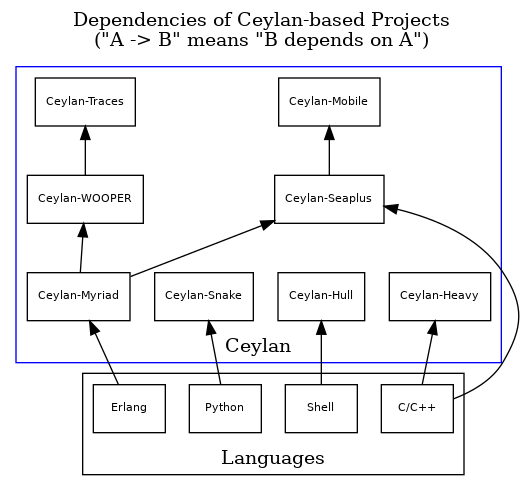
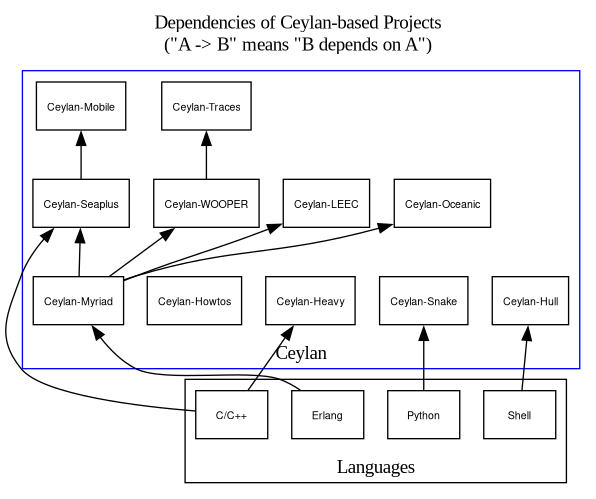
Updated will lacking subprojects.

Changed region(s): [[0.0, 0.0305, 1.0, 0.9776], [0.855, 0.4582, 0.8855, 0.4888]]

diff --git a/README.md b/README.md
@@ -1,21 +1,22 @@
 Ceylan
 ======
 
-This project has for goal to provide, as free software, some high-level, portable, general-purpose developments.
+This project has for goal to provide, as free software, some high-level, portable, general-purpose developments, and a few documentation elements.
 
-This repository is just an umbrella, in the sense that it is mostly empty: its purpose is only to federate and give access to the `Ceylan-*` actual subprojects.
+This repository is as such just an umbrella, in the sense that it is mostly empty: its purpose is only to federate and give access to the `Ceylan-*` actual subprojects.
 
-**Ceylan** currently comprises indeed 8 public subprojects:
+**Ceylan** currently comprises indeed 11 public subprojects:
 
- - [Ceylan-Heavy](https://github.com/Olivier-Boudeville/Ceylan-Heavy): for all general-purpose **C++** developments, to serve as a base for [OSDL](https://github.com/Olivier-Boudeville/OSDL)
  - [Ceylan-Hull](https://github.com/Olivier-Boudeville/Ceylan-Hull): a repository for all kinds of **shell scripts**
- - [Ceylan-Snake](https://github.com/Olivier-Boudeville/Ceylan-Snake): for some developments in **Python**
+ - [Ceylan-Howtos](https://github.com/Olivier-Boudeville/Ceylan-Howtos): a repository for various **HOW-TOs**, i.e. technical recipes about GNU/Linux, networks, cybersecurity, 3D topics, Erlang, Emacs, Git, build, etc.
  - [Ceylan-Myriad](https://github.com/Olivier-Boudeville/Ceylan-Myriad): our toolbox for all our **Erlang-based** developments
  - [Ceylan-WOOPER](https://github.com/Olivier-Boudeville/Ceylan-WOOPER): for all developments dealing with **WOOPER** (OOP in Erlang)
  - [Ceylan-Traces](https://github.com/Olivier-Boudeville/Ceylan-Traces): for all **trace-related** developments (in Erlang again)
+ - [Ceylan-LEEC](https://github.com/Olivier-Boudeville/Ceylan-LEEC): for the support of **Let's Encrypt**  (still in Erlang)
+ - [Ceylan-Oceanic](https://github.com/Olivier-Boudeville/Ceylan-Oceanic): for the support of the **Enocean protocol** for building automation (in Erlang)
  - [Ceylan-Seaplus](https://github.com/Olivier-Boudeville/Ceylan-Seaplus): facilities to **better integrate C/C++ code to Erlang**
  - [Ceylan-Mobile](https://github.com/Olivier-Boudeville/Ceylan-Mobile): facilities to **control mobile phones and 3G keys from Erlang**
+ - [Ceylan-Heavy](https://github.com/Olivier-Boudeville/Ceylan-Heavy): for all general-purpose **C++** developments, to serve as a base for [OSDL](https://github.com/Olivier-Boudeville/OSDL)
+ - [Ceylan-Snake](https://github.com/Olivier-Boudeville/Ceylan-Snake): for some developments in **Python**
 
 ![Ceylan dependencies](ceylan-dependencies.png "Ceylan Dependencies")
-
-Additionally a collection of various technical recipes exists in [Ceylan-HOWTOs](https://github.com/Olivier-Boudeville/Ceylan-HOWTOs).
